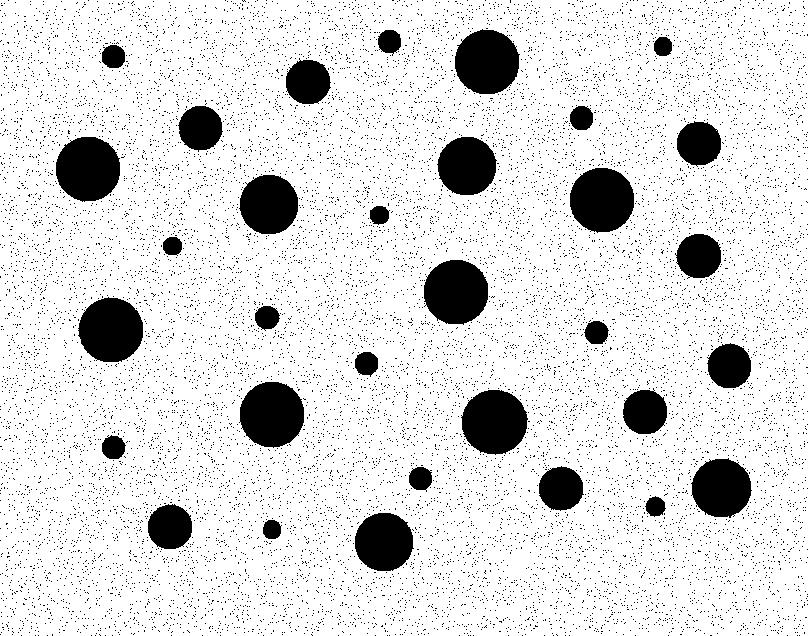
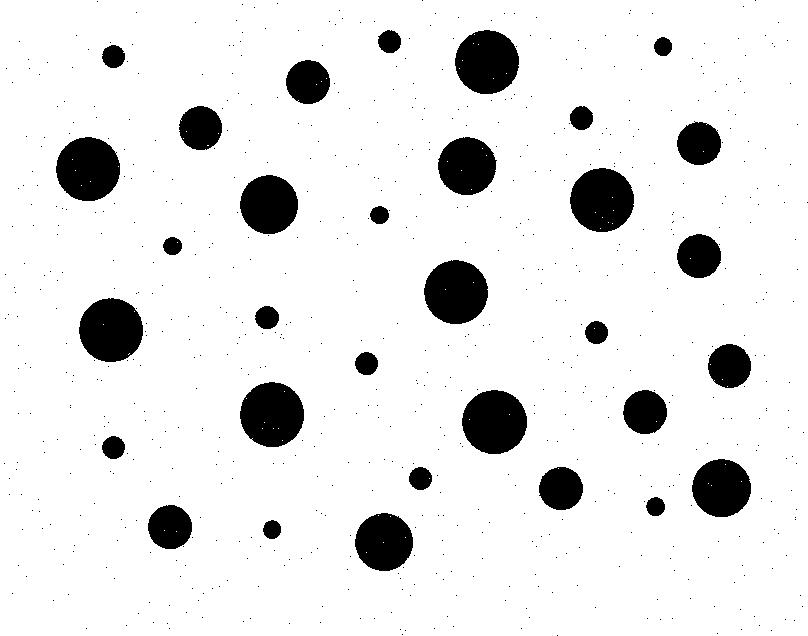
removed border

diff --git a/project1/NoiseRemoval.m b/project1/NoiseRemoval.m
@@ -29,20 +29,40 @@ function noNoiseImg = NoiseRemoval(img)
 
 % Remove noise using open-close operations.
 % strel function to create an structuring element
-strucElement = ones(3);
+strucElement = ones(4);
 
 %imclose to apply close operation
-img1 = imclose(img, strucElement); 
-
+img1 = open_op(img, strucElement); 
+%figure, imshow(img1);
 %imclose to apply open operation
-noNoiseImg = imopen(img1, strucElement);
+noNoiseImg = close_op(img1, strucElement);
+%figure,imshow(noNoiseImg);
 
-% Primary image before noise removal
-%figure,imshow(img);
-disp('Original image of "RandomDisks-P10"');
+%removing borders
+%the size of border around image is approximately 4 pixels.
+[m,n] =size(noNoiseImg);
 
-% Image after removing noise
-%figure, imshow(noNoiseImg);
-disp('Image of "RandomDisks-P10" after noise removal');
+for i=1:m
+    for j=1:4
+        noNoiseImg(i,j)=1;
+    end
+end
+
+for i=1:4
+    for j=1:n
+        noNoiseImg(i,j)=1;
+    end
+end
+
+
+for i=1:m
+    for j=n-4:n
+        noNoiseImg(i,j)=1;
+    end
+end
+
+disp('Noise filtering done');
+
+return
 
 

diff --git a/project1/main.m b/project1/main.m
@@ -28,23 +28,25 @@
 %  Author:      Mudit Garg, Mayank Murali, Niranjan Thirusaga
 %  Date:        1/29/2020
 %%%%%%%%%%%%%%%%%%%%%%%%%%%%%%%%%%%%%%%%%%%%%%%%%%%%%%%%%%%%%%%%%%%%%%%%%%%
-
+clear;
 %reading the image
 img=imread('RandomDisks-P10.jpg');
 
 %convert the image to binary
 img=convert2binary(img);
+%figure, imshow(img);
 %imwrite(img,'binaryimage.jpg');
 
 %remove noise using close and open operation
 noNoiseImg = NoiseRemoval(img);
+figure,imshow(noNoiseImg);
 %imwrite(noNoiseImg,'filtered_img.jpg')
 
 %find the disk of largest size using hit and miss transform
-A=~disk(31);
-B=disk(36);
+A=~disk(8);
+B=disk(10);
 
-big=hitandmiss(noNoiseImg,double(A),B);
+big=hitandmiss(noNoiseImg,(A),B);
 figure, imshow(big);
 
 %find the disk of the smallest size using hit and miss transform

diff --git a/project1/convert2binary.m b/project1/convert2binary.m
@@ -38,18 +38,16 @@ if(r==3)
 end
 
 %evaluating the threshold
-val=sum(sum(img));
-threshold=val/(p*q);
-
+threshold=127;
 %creating a binary image
 y=zeros(p,q);
 img=double(img);
 for i=1:p
     for j=1:q
         if(img(i,j)>threshold)
-            y(i,j)=1;
+            y(i,j)=255;
         end
     end
 end
-
+y=y==255;
 return

diff --git a/project1/disk.m b/project1/disk.m
@@ -8,8 +8,8 @@ for i=1:d+1
     for j=1:d+1
         x = i - r - 1;
         y = j - r - 1;
-        R  = x*x+y*y;
-        if R<=(r*r)
+        R  = sqrt(x*x+y*y);
+        if R<=r
             disk_str(i,j)=1;
         end
     end

diff --git a/project1/hitandmiss.m b/project1/hitandmiss.m
@@ -27,8 +27,10 @@
 function transform=hitandmiss(X,A,B)
 
 img1 = erosion(X,A);
+figure, imshow(img1);
 compl=complement(X);
 img2=erosion(compl,B);
+figure, imshow(img2);
 transform=intersection(img1,img2);
 
 
